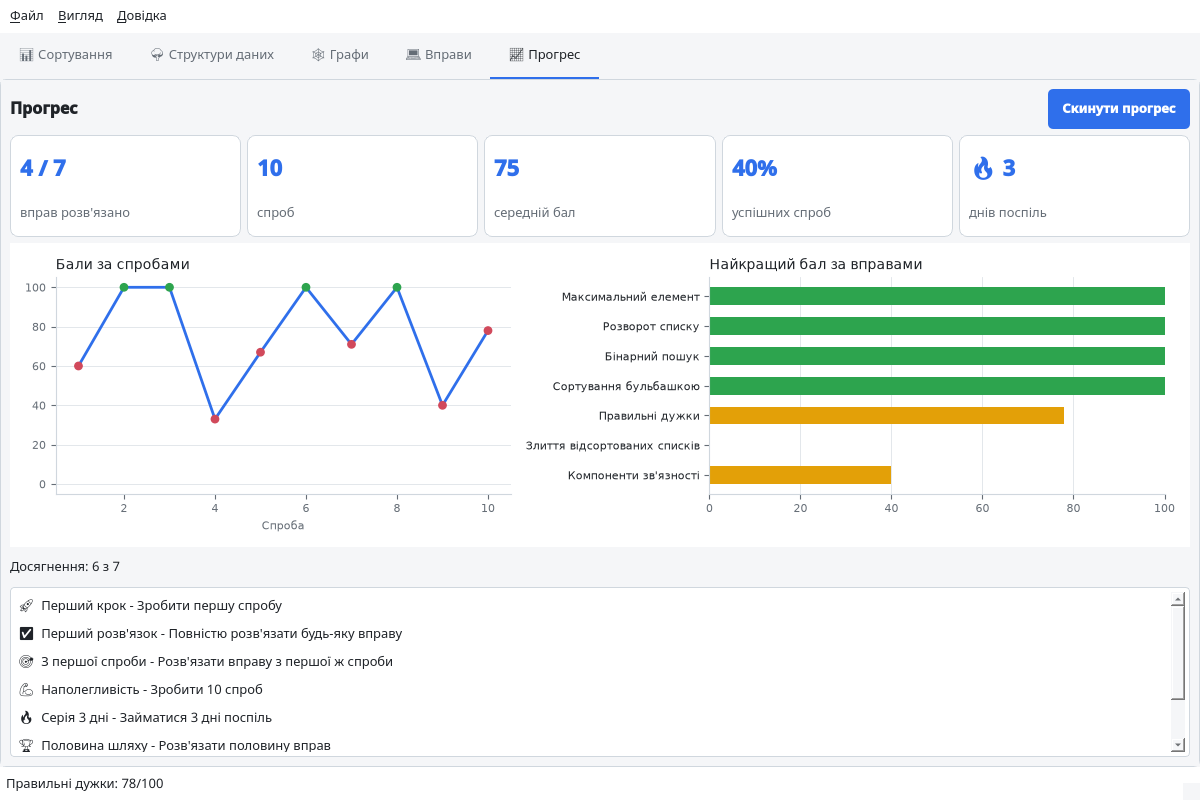
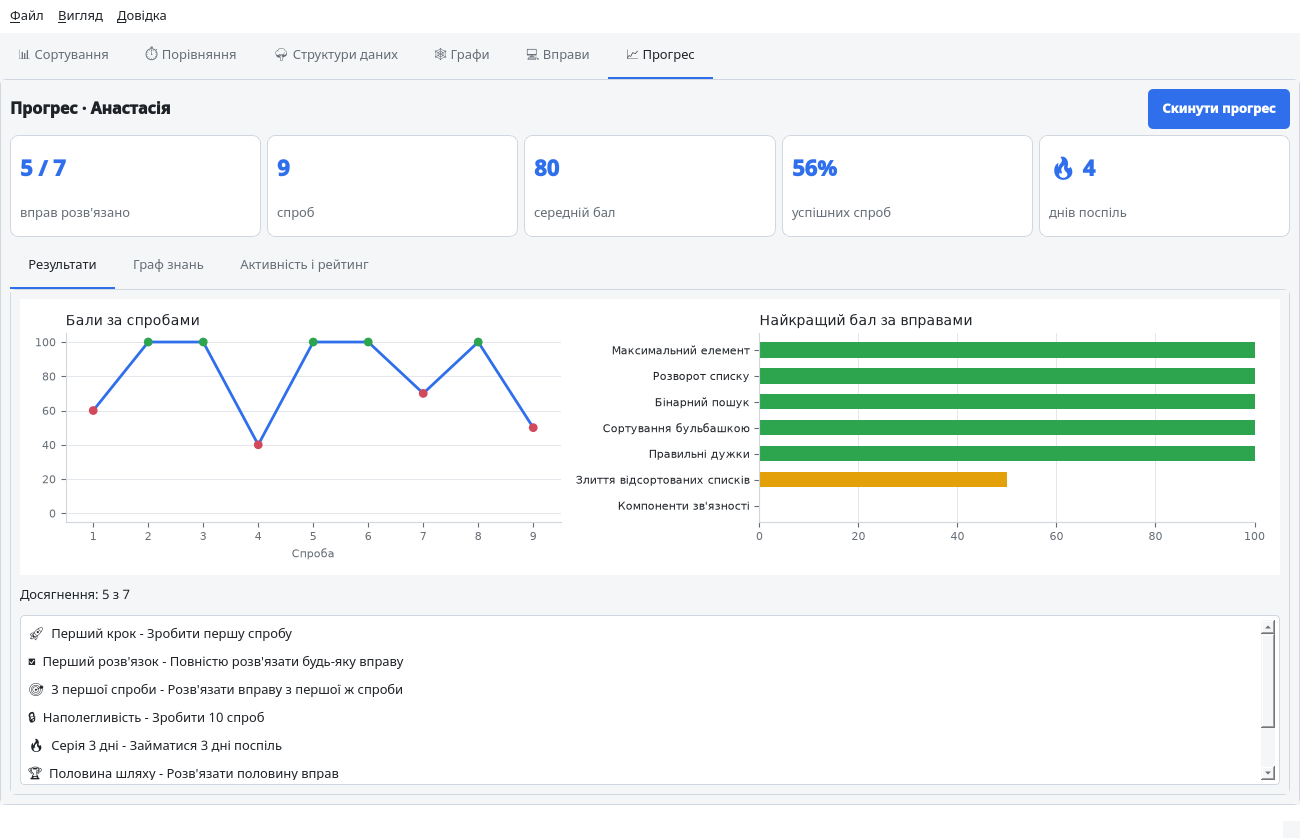
docs: rewrite README for the whole project, update screenshots

diff --git a/README.md b/README.md
@@ -2,7 +2,7 @@
 
 Desktop application for learning algorithms and data structures through step-by-step
 visualization, interactive data structures, coding exercises with automatic checking,
-and progress tracking. Works fully offline.
+algorithm benchmarking and progress tracking for several students. Works fully offline.
 
 ![Graph algorithms](screenshots/graphs.png)
 
@@ -10,36 +10,45 @@ and progress tracking. Works fully offline.
 
 Students struggle with algorithms because they can't see how data changes step by step,
 don't get immediate feedback on their own code, and can't track their progress.
-CodeLearn Studio puts visualization, practice and progress into one local application.
+CodeLearn Studio puts visualization, practice, measurement and progress into one local application.
 
 | Feature | Visualgo | HackerRank | CodeLearn Studio |
 |---------|----------|------------|------------------|
 | Works offline | No | No | **Yes** |
 | Step-by-step visualization | Yes | No | **Yes** |
 | Built-in exercises with auto-check | No | Yes | **Yes** |
-| Progress tracking | No | Yes | **Yes** |
+| Empirical complexity measurement | No | No | **Yes** |
+| Progress tracking and study recommendations | No | Yes | **Yes** |
 | Open source | No | No | **Yes** |
 
 ## Features
 
-The GUI is built with **PyQt5** (custom drawing with `QPainter`, charts with `matplotlib`).
-Light and dark themes (`Ctrl+T`); window size, theme and the last tab are remembered.
+The GUI is built with **PyQt5**. Light and dark themes (`Ctrl+T`); window size, theme,
+the last tab and the current student are remembered between sessions.
 
 | Tab | What it does |
 |-----|--------------|
 | 📊 **Sorting** | Bubble, Insertion, Merge, Quick and Heap sort. Play / pause / step forward / step back, speed slider, random or custom input, comparison and swap counters, step log, complexity hints. |
+| ⏱ **Comparison** | Benchmarks the sorting algorithms on arrays generated with `numpy` (random, sorted, reversed, nearly sorted, few unique) for a range of sizes with repeated runs. Plots time, comparisons or swaps against *n* (optional log-log axes, error bars) and estimates the complexity of every algorithm from the measurements: the log-log slope and the closest of O(n), O(n log n), O(n²). Runs in a background thread; results are stored in the database. |
 | 🌳 **Data structures** | Binary search tree (search path highlighting, traversals, height), min/max heap (tree + array view), hash table (buckets, collisions, resizing, load factor), stack, queue, singly linked list. Insert / delete / find / random fill. |
-| 🕸 **Graphs** | Build a graph with the mouse (click to add a vertex, click two vertices to connect them, drag to move) or with the form; weighted and directed graphs. Animated **BFS**, **DFS** and **Dijkstra** with a levels / order / distances table and shortest path highlighting. |
+| 🕸 **Graphs** | Build a graph with the mouse (click to add a vertex, click two vertices to connect them, drag to move) or with the form; weighted and directed graphs. Generate random graphs (Erdős–Rényi, tree, grid, complete) and arrange them with `networkx` layouts (spring, circular, shell, Kamada–Kawai, spectral). Animated **BFS**, **DFS** and **Dijkstra** with a levels / order / distances table and shortest path highlighting; graph metrics (connectivity, components, diameter, density). |
 | 💻 **Exercises** | 7 tasks from easy to hard with hints. Code editor with Python syntax highlighting and auto-indent. Solutions run in a separate process with a time limit, so an infinite loop never freezes the app. Results table with expected / actual / time for every test. |
-| 📈 **Progress** | Solved exercises, attempts, average score, success rate, day streak, `matplotlib` charts and achievements. Progress is saved to a JSON file between sessions. |
+| 📈 **Progress** | Statistics cards (solved exercises, attempts, average score, success rate, day streak). **Results:** score charts and achievements. **Knowledge graph:** course topics with prerequisites, coloured as mastered / available / locked, and a recommendation of what to study next. **Activity and leaderboard:** attempts over the last 14 days and a ranking of all students. |
 
-| Sorting | Data structures |
-|---------|-----------------|
+**Students.** *File → Student…* (`Ctrl+U`) creates, selects and deletes student profiles;
+every student has their own progress. The window title shows the current student.
+
+| Comparison | Knowledge graph |
+|------------|-----------------|
+| ![Comparison](screenshots/benchmark.png) | ![Knowledge graph](screenshots/knowledge_graph.png) |
+| **Sorting** | **Data structures** |
 | ![Sorting](screenshots/sorting.png) | ![Data structures](screenshots/data_structures.png) |
 | **Exercises** | **Progress** |
 | ![Exercises](screenshots/exercises.png) | ![Progress](screenshots/dashboard.png) |
+| **Activity and leaderboard** | **Students** |
+| ![Activity](screenshots/activity.png) | ![Students](screenshots/students.png) |
 
-### Non-blocking data structures (bonus)
+### Non-blocking data structures
 
 `src/data_structures/concurrent/` contains concurrent structures that don't use mutual
 exclusion locks in their algorithms:
@@ -60,6 +69,32 @@ the change and publish it with one CAS, retrying on conflict. On free-threaded P
 python main.py --concurrency
 ```
 
+## Libraries
+
+| Library | Where | What for |
+|---------|-------|----------|
+| **PyQt5** | `src/gui/` | GUI, custom drawing with `QPainter`, background threads |
+| **SQLAlchemy** | `src/database/` | ORM models and SQLite storage for students, attempts and benchmark runs |
+| **numpy** | `src/core/benchmark.py` | Input generation, statistics of repeated runs, complexity estimation (`polyfit`, `lstsq`) |
+| **matplotlib** | `src/gui/panels/dashboard_panel.py`, `benchmark_panel.py` | Progress, activity and benchmark charts; drawing the knowledge graph |
+| **networkx** (+ scipy) | `src/algorithms/graphs/nx_adapter.py`, `src/core/knowledge_graph.py` | Graph layouts and generators, graph metrics, knowledge graph, reference algorithms in tests |
+| **pytest**, **pytest-cov** | `tests/` | Unit and headless GUI tests, coverage |
+
+What worked well and what didn't with every library is described in
+[`LIBRARY_RETROSPECTIVE.md`](LIBRARY_RETROSPECTIVE.md) (in Ukrainian).
+
+### Data storage
+
+Progress is stored in an SQLite database:
+
+- Linux: `~/.local/share/CodeLearn/CodeLearnStudio/codelearn.db`
+- Windows: `%APPDATA%\CodeLearn\CodeLearnStudio\codelearn.db`
+- macOS: `~/Library/Application Support/CodeLearn/CodeLearnStudio/codelearn.db`
+
+Tables: `students`, `exercise_attempts`, `algorithm_runs`. A `progress.json` file from older
+versions found in the same folder is imported automatically on first start and renamed to
+`progress.json.imported`.
+
 ## How to run
 
 Requirements: Python 3.10+.
@@ -73,7 +108,7 @@ source .venv/bin/activate          # Windows: .venv\Scripts\activate
 pip install -r requirements.txt
 
 python main.py                     # GUI
-python main.py --console           # console demo of the Lab 1 components
+python main.py --console           # console demo of the core components
 python main.py --concurrency       # non-blocking data structures demo
 
 pytest                             # tests (GUI tests run headless)
@@ -88,6 +123,7 @@ PyCharm picks up `requirements.txt` automatically and offers to install the depe
 ├── main.py                          # entry point (GUI / --console / --concurrency)
 ├── requirements.txt
 ├── pytest.ini
+├── LIBRARY_RETROSPECTIVE.md
 ├── screenshots/
 ├── src/
 │   ├── core/
@@ -96,45 +132,69 @@ PyCharm picks up `requirements.txt` automatically and offers to install the depe
 │   │   ├── exercise.py              # BaseExercise, Exercise, CodeExercise, TestCase
 │   │   ├── exercise_catalog.py      # the exercises
 │   │   ├── sandbox.py               # runs user code in a separate process with a timeout
-│   │   ├── analytics.py             # ProgressTracker (history, streak, JSON storage)
-│   │   └── achievements.py
+│   │   ├── analytics.py             # ProgressTracker (history, best scores, streak)
+│   │   ├── achievements.py
+│   │   ├── benchmark.py             # numpy input generators, Benchmark, complexity estimation
+│   │   └── knowledge_graph.py       # course topics and prerequisites (networkx DiGraph)
+│   ├── database/
+│   │   ├── models.py                # Student, ExerciseAttempt, AlgorithmRun (SQLAlchemy ORM)
+│   │   ├── database.py              # engine, sessions, transactions
+│   │   ├── repository.py            # ProgressRepository: JSON and SQL implementations, migration
+│   │   └── run_repository.py        # benchmark results
 │   ├── algorithms/
 │   │   ├── sorting/                 # bubble, insertion, merge, quick, heap
-│   │   └── graphs/                  # BFS, DFS, Dijkstra
+│   │   └── graphs/                  # BFS, DFS, Dijkstra, networkx adapter
 │   ├── data_structures/             # linked list, dynamic array, stack, queue,
 │   │   │                            # BST, binary heap, hash table, graph
 │   │   └── concurrent/              # lock-free stack/queue, SPSC ring buffer
 │   └── gui/
 │       ├── main_window.py
+│       ├── student_dialog.py
 │       ├── styles.py                # Theme dataclass + generated QSS
 │       ├── step_player.py           # Qt-independent step navigation
 │       ├── structure_controllers.py # one controller per data structure
 │       ├── panels/                  # one panel per tab
 │       └── widgets/                 # canvases, playback bar, code editor
-└── tests/
+└── tests/                           # 589 tests, ~90% coverage
 ```
 
 ## OOP design
 
 - **Hierarchies:** `Algorithm` → `SortingAlgorithm` → 5 sorts; `Algorithm` → `GraphAlgorithm` →
   BFS / DFS / Dijkstra; `DataStructure[T]` → 10 structures; `BaseExercise` → `Exercise` /
-  `CodeExercise`; `VisualizationCanvas` → `BarCanvas`, `GraphCanvas`, `StructureCanvas` →
-  `TreeCanvas` → `BSTCanvas` / `HeapCanvas`, …; `StructureController` → 6 controllers.
+  `CodeExercise`; `ProgressRepository` → `JsonProgressRepository` / `SqlProgressRepository`;
+  `InputGenerator` → 5 input kinds; `GraphGenerator` → 4 random graph models;
+  `VisualizationCanvas` → `BarCanvas`, `GraphCanvas`, `StructureCanvas` → `TreeCanvas` →
+  `BSTCanvas` / `HeapCanvas`, …; `StructureController` → 6 controllers.
 - **Template method:** `SortingAlgorithm.execute()` → `_sort()`, `GraphAlgorithm.execute()` → `_run()`.
+- **Repository and strategy:** the GUI works with any `ProgressRepository`, the benchmark with any
+  `InputGenerator`, the graph tab with any `GraphGenerator`.
+- **Adapter:** `nx_adapter.py` converts between our `Graph` and `networkx` graphs.
 - **Polymorphism:** the data structures tab works with every structure through the same
   `StructureController` interface; every canvas only implements `draw()`; generics with `TypeVar`.
 - **Reuse:** BFS uses our `Queue`, Dijkstra uses our `BinaryHeap` as the priority queue.
 
+## Testing
+
+- Unit tests for all algorithms, data structures, exercises, the sandbox, the database layer,
+  the benchmark and the knowledge graph.
+- Our BFS, DFS and Dijkstra are cross-checked against `networkx` on random directed and
+  undirected graphs.
+- Both progress repositories (JSON and SQL) pass the same contract tests.
+- GUI tests run headless with the Qt `offscreen` platform; the database is in memory.
+
 ## Team
 
-| Lab 2 | Daniil Ilchyshyn | Anastasia Hopkalo |
-|-------|------------------|-------------------|
-| Repository | `.gitignore`, `requirements.txt`, tests moved to `tests/` | README, screenshots |
-| Core | Step recording for sorting (template method) | `GraphAlgorithm`, BFS / DFS / Dijkstra, code exercises, sandbox, progress tracker, achievements |
-| Data structures | BST, binary heap, hash table, graph | Lock-free stack and queue, SPSC ring buffer (bonus) |
-| GUI | Main window, themes, base canvas, sorting tab | Data structures, graphs, exercises and progress tabs |
+| Area | Daniil Ilchyshyn | Anastasia Hopkalo |
+|------|------------------|-------------------|
+| Core | Exercises, progress tracker, console entry point, step recording for sorting, numpy benchmark and complexity estimation | `Algorithm` / `SortingAlgorithm` / `DataStructure` base classes, the 5 sorting algorithms, `GraphAlgorithm`, BFS / DFS / Dijkstra, code exercises, sandbox, achievements, knowledge graph |
+| Data structures | BST, binary heap, hash table, graph | Linked list, dynamic array, stack, queue, lock-free stack and queue, SPSC ring buffer, networkx adapter, layouts and generators |
+| Database | SQLAlchemy models, repositories, JSON → SQLite migration | Student profiles UI, leaderboard |
+| GUI | Main window, themes, base canvas, sorting and comparison tabs | Data structures, graphs, exercises and progress tabs |
+| Quality | Tests for the core, database and benchmark; retrospective on PyQt5, SQLAlchemy, numpy | Shared fixtures, networkx cross-checks, GUI tests; retrospective on matplotlib, networkx, pytest; README |
 
-## Lab 3 plan
+## Built with Claude Code
 
-External libraries: `matplotlib` (already used for the progress charts), `SQLAlchemy`
-for storing progress, `networkx` for graph layouts, `pytest` / `pytest-cov`.
+The project was developed with the help of [Claude Code](https://claude.com/claude-code)
+using the **Claude Opus 5.5** model: it was used for planning, writing and reviewing code,
+tests and documentation. All changes were reviewed, run and committed by the team members.
